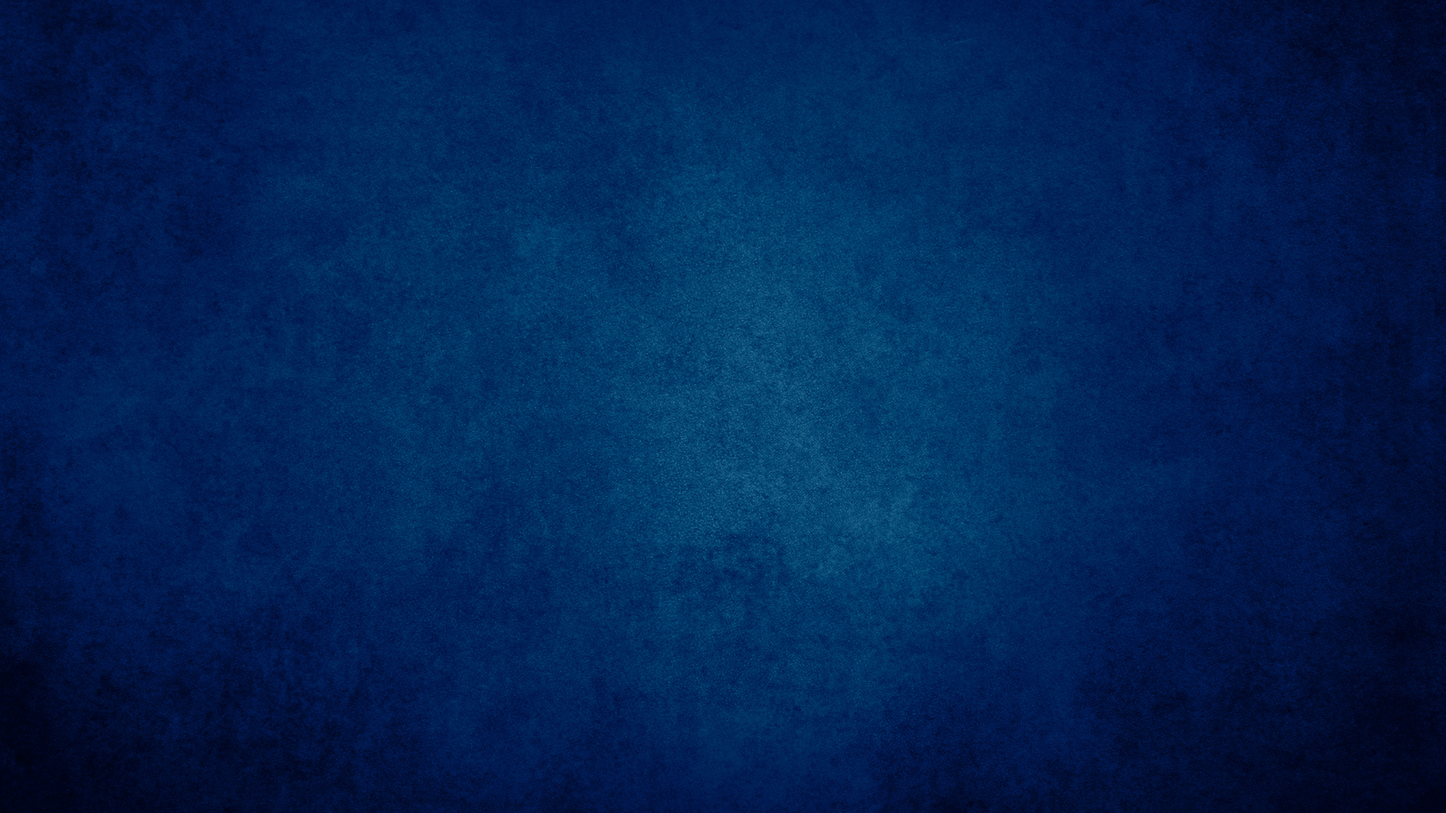
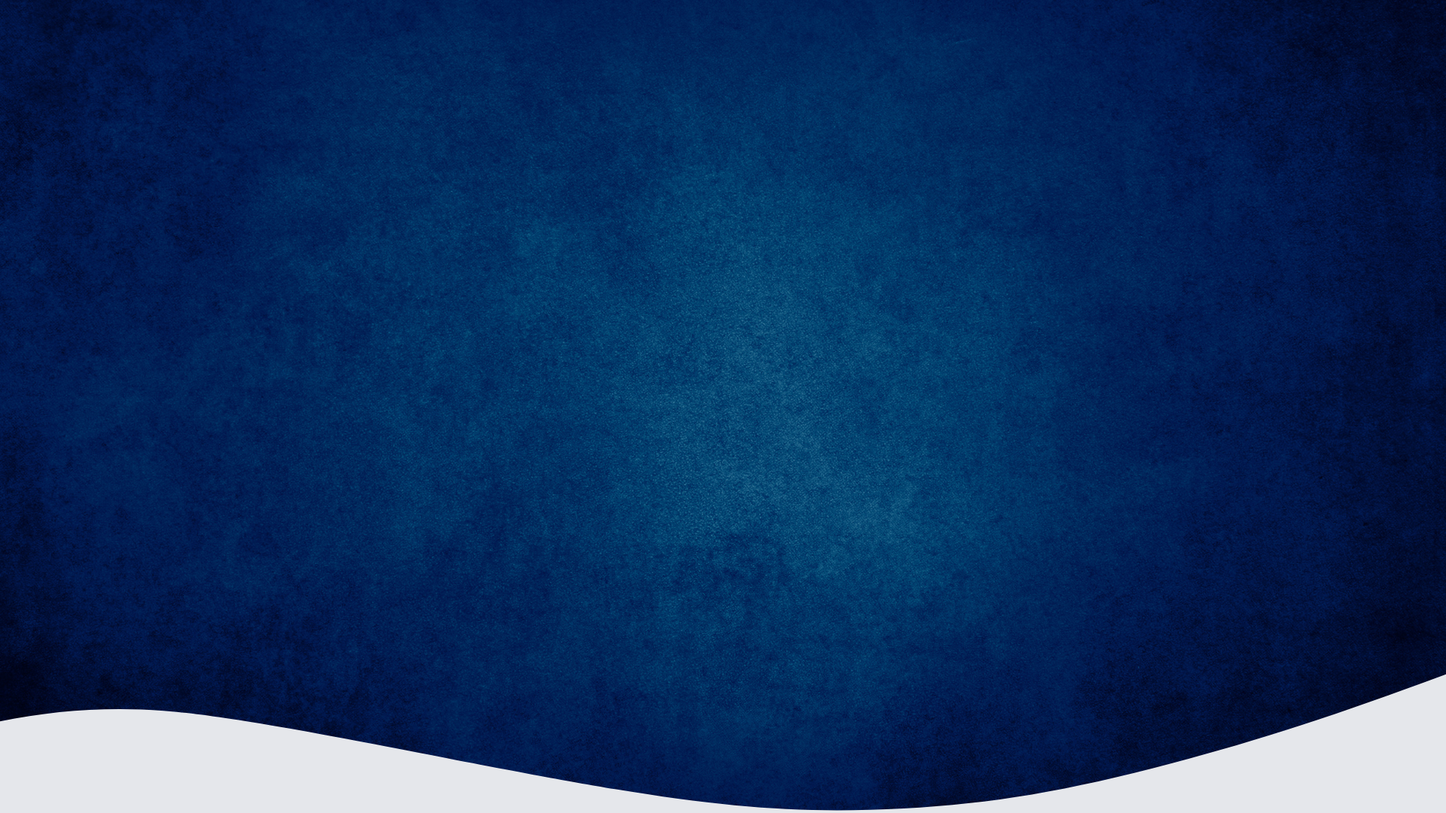
Home v2

Changed region(s): [[0.0, 0.825, 1.0, 1.0]]

diff --git a/src/Components/LandingPage/LandingPage.jsx b/src/Components/LandingPage/LandingPage.jsx
@@ -8,33 +8,35 @@ export default function LandingPage() {
   const isLoggedIn = localStorage.getItem("isLoggedIn");
 
   return (
-    <div
-      className="flex flex-col justify-center items-center bg-cover bg-center min-h-screen text-white"
-      style={{ backgroundImage: `url(${backgroundImage})` }}
-    >
-      <div className="w-full text-center items-center justify-center px-10">
-        <div className="pt-10 pb-36 space-x-10 flex flex-col lg:flex-row items-center lg:items-center">
-          <div className="flex-1 mb-8 lg:mb-0">
+    <div className="relative flex flex-col justify-center items-center min-h-screen text-white">
+      <div
+        className="absolute inset-0 bg-cover bg-center"
+        style={{ backgroundImage: `url(${backgroundImage})` }}
+      ></div>
+
+      <div className="relative w-full text-center items-center justify-center px-5 lg:px-10">
+        <div className="pt-10 pb-24 space-y-6 lg:space-y-0 lg:space-x-10 flex flex-col lg:flex-row items-center lg:items-center">
+          <div className="flex-1 mb-6 lg:mb-0">
             <img
               src={ImgPortada}
               alt="Portada"
-              className="mx-auto lg:mx-0 w-full lg:w-full"
+              className="mx-auto lg:mx-0 w-full md:w-2/3 lg:w-full"
             />
           </div>
           <div className="flex-1 flex flex-col justify-center items-center lg:text-left">
-            <div className="mb-8 justify-center text-center items-center space-y-5">
-              <p className="text-3xl font-semibold">
+            <div className="mb-8 justify-center text-center items-center space-y-4">
+              <p className="text-xl md:text-2xl font-semibold">
                 ESCUELA DE ENTRENAMIENTO PROFÉTICO
               </p>
-              <h1 className="text-3xl lg:text-6xl font-bold mt-2">
+              <h1 className="text-3xl md:text-4xl lg:text-6xl font-bold mt-2">
                 DESCUBRE EL PODER DE LA PROFECÍA
               </h1>
             </div>
-            <div className="flex space-x-4 items-center justify-center text-center">
+            <div className="flex flex-col space-y-3 w-full items-center justify-center text-center lg:flex-row lg:space-y-0 lg:space-x-4 lg:w-auto">
               {isLoggedIn ? (
                 <button
                   onClick={() => navigate("/cuenta")}
-                  className="bg-white text-black font-bold py-2 px-6 rounded hover:bg-gray-200 transition duration-300"
+                  className="bg-white text-black font-bold py-3 px-8 w-3/4 md:w-1/2 lg:w-auto lg:py-4 lg:px-10 rounded hover:bg-gray-200 transition duration-300 text-sm lg:text-lg"
                 >
                   Ir a la cuenta
                 </button>
@@ -42,13 +44,13 @@ export default function LandingPage() {
                 <>
                   <button
                     onClick={() => navigate("/login")}
-                    className="bg-white text-black font-bold py-2 px-6 rounded hover:bg-gray-200 transition duration-300"
+                    className="bg-white text-black font-bold py-2 px-6 w-3/4 md:w-1/2 lg:w-auto h-12 lg:h-auto lg:py-4 lg:px-10 rounded hover:bg-gray-200 transition duration-300 text-sm lg:text-lg"
                   >
                     Iniciar sesión
                   </button>
                   <button
                     onClick={() => navigate("/RegistroUser")}
-                    className="bg-white text-black font-bold py-2 px-6 rounded hover:bg-gray-200 transition duration-300"
+                    className="bg-white text-black font-bold py-2 px-6 w-3/4 md:w-1/2 lg:w-auto h-12 lg:h-auto lg:py-4 lg:px-10 rounded hover:bg-gray-200 transition duration-300 text-sm lg:text-lg"
                   >
                     Regístrate
                   </button>
